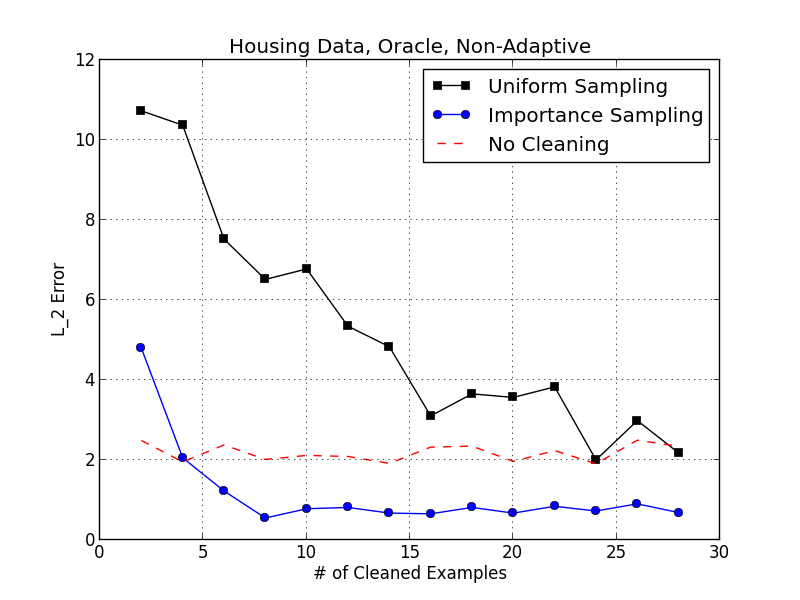
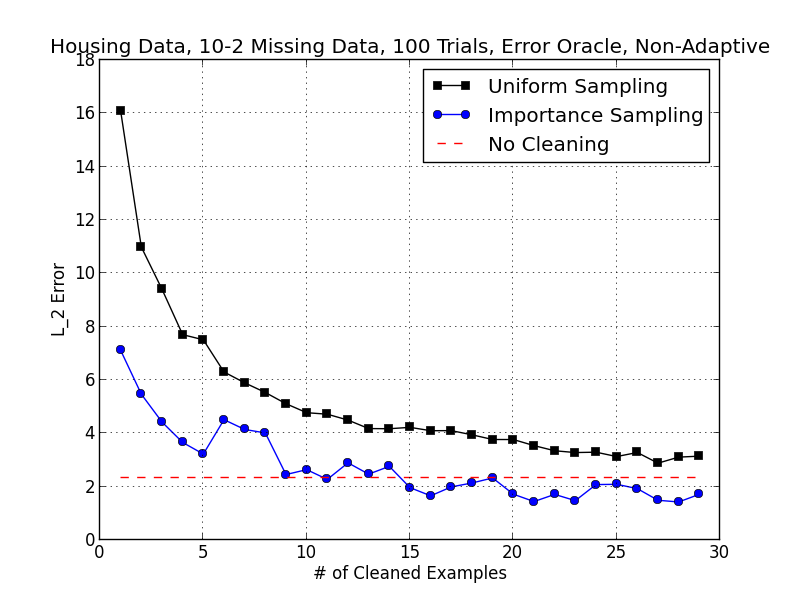
Udpated experiments and plots

diff --git a/experiment1.py b/experiment1.py
@@ -4,33 +4,8 @@ import numpy as np
 import random
 from cvxopt import solvers, matrix, mul
 from sampleml import *
-
-"""
-This loads the smallest load the smallest dataset that we 
-have. The housing dataset. This dataset is completely numerical
-and is meant for regression tasks.
-"""
-def loadHousingDataSet():
-	lineCount = 0
-	data_matrix = np.zeros((0,14))
-
-	with open('data/housing.csv') as file:
-		line = file.readline()
-		while line != "":
-			example_vector = np.zeros((1,14))
-			data_line = line.split()
-
-			for i in range(0,14):
-				example_vector[0,i] = float(data_line[i])
-
-			data_matrix = np.vstack([data_matrix, example_vector])
-
-			line = file.readline()
-			lineCount = lineCount + 1
-
-	print lineCount, "lines successfuly loaded."
-
-	return data_matrix
+from dataset import *
+import matplotlib.pyplot as plt
 
 """
 Experiment 1, Suppose we have an oracle that
@@ -45,7 +20,7 @@ def doExperiment1a(uniform=False,cleaning=20, errorRate=0.1):
 	feature_tuple = featuresObservationsSplit(raw_data,13) #get the clean result
 	cleancvxsol = trainConvexLossModel(feature_tuple[0],feature_tuple[1])
 
-	dirty_data_with_error_spec = makeMissingValues(raw_data, [1,13,0], -1, errorRate)#make it dirty
+	dirty_data_with_error_spec = makeMissingValues(raw_data, [1,12, 4, 13,0], -1, errorRate)#make it dirty
 	oracle = learnMissingValuePredicate(dirty_data_with_error_spec) #learn oracle on the full data
 	feature_tuple = featuresObservationsSplit(dirty_data_with_error_spec[0],13)
 	cvxsol = trainConvexLossModel(feature_tuple[0],feature_tuple[1])
@@ -53,7 +28,7 @@ def doExperiment1a(uniform=False,cleaning=20, errorRate=0.1):
 	importance_sampling = getImportanceSamplingDistribution(oracle[0],dirty_data_with_error_spec[0], 13, cvxsol[1], cvxsol[2],uniform)
 	data = cleanNextTrainingBatch(dirty_data_with_error_spec,cleaning,importance_sampling[1],range(0,506))
 	feature_tuple = featuresObservationsSplit(data[0],13) #get the clean result
-	w = normalizeWeightMatrix(importance_sampling[0], int(data[2]))
+	w = normalizeWeightMatrix(importance_sampling[0], int(data[2]), data[4])
 	estcvxsol = trainConvexLossModel(feature_tuple[0],feature_tuple[1],'ls', w)
 
 	return (np.linalg.norm(cleancvxsol[0]['x']-cvxsol[0]['x']), np.linalg.norm(cleancvxsol[0]['x']-estcvxsol[0]['x']))
@@ -63,28 +38,28 @@ def experiment1aResults():
 	error_importance = []
 	error_dirty = []
 
-	cleaning_range = range(2,30,2)
-	averaging_trials = 25
+	cleaning_range = range(5,35,5)
+	averaging_trials = 100
 
 	for cleaning in cleaning_range:
-
 		trials_imp = []
 		trials_uni = []
 		trials_dirty = []
 
 		for trial in range(0,averaging_trials):
-			imp = doExperiment1a(False,cleaning)
-			uni = doExperiment1a(True,cleaning)
+			imp = doExperiment1a(False,cleaning,0.1)
+			uni = doExperiment1a(True,cleaning,0.1)
 			trials_imp.append(imp[1])
 			trials_uni.append(uni[1])
 			trials_dirty.append(uni[0])
 			trials_dirty.append(imp[0])
-
+		
 		error_uniform.append(np.median(trials_uni))
 		error_importance.append(np.median(trials_imp))
 		error_dirty.append(np.median(trials_dirty))
+		print 'i',trials_uni, trials_imp
 
-	import matplotlib.pyplot as plt
+
 	fig = plt.figure()
 	uniform = plt.plot(cleaning_range,error_uniform, 'ks-', label='Uniform Sampling')
 	importance = plt.plot(cleaning_range,error_importance, 'bo-', label='Importance Sampling')
@@ -120,7 +95,7 @@ def doExperiment1b(cleaning=20,batch=5, errorRate=0.1):
 		data = cleanNextTrainingBatch(dirty_data_with_error_spec,batch,importance_sampling[1],range(0,506))
 		dirty_data_with_error_spec = (data[0],data[1])
 		feature_tuple = featuresObservationsSplit(dirty_data_with_error_spec[0],13) #get the clean result
-		w = normalizeWeightMatrix(importance_sampling[0], int(data[2]))
+		w = normalizeWeightMatrix(importance_sampling[0], int(data[2]),data[4])
 		cvxsol = trainConvexLossModel(feature_tuple[0],feature_tuple[1],'ls', w)
 
 	#do the last batch
@@ -129,7 +104,7 @@ def doExperiment1b(cleaning=20,batch=5, errorRate=0.1):
 		data = cleanNextTrainingBatch(dirty_data_with_error_spec,cleaning%batch,importance_sampling[1],range(0,506))
 		dirty_data_with_error_spec = (data[0],data[1])
 		feature_tuple = featuresObservationsSplit(dirty_data_with_error_spec[0],13) #get the clean result
-		w = normalizeWeightMatrix(importance_sampling[0], int(data[2]))
+		w = normalizeWeightMatrix(importance_sampling[0], int(data[2]),data[4])
 		cvxsol = trainConvexLossModel(feature_tuple[0],feature_tuple[1],'ls', w)
 
 	return (errorinitial, np.linalg.norm(cleancvxsol[0]['x']-cvxsol[0]['x']))
@@ -141,8 +116,8 @@ def experiment1bResults():
 	error_importance_full = []
 	error_dirty = []
 
-	cleaning_range = range(2,30,2)
-	averaging_trials = 25
+	cleaning_range = range(5,30,5)
+	averaging_trials = 100
 
 	for cleaning in cleaning_range:
 
@@ -173,7 +148,6 @@ def experiment1bResults():
 		error_importance_full.append(np.median(trials_imp_full))
 		error_dirty.append(np.median(trials_dirty))
 
-	import matplotlib.pyplot as plt
 	fig = plt.figure()
 	uniform = plt.plot(cleaning_range,error_uniform, 'ks-', label='Uniform Sampling')
 	importance = plt.plot(cleaning_range,error_importance_5, 'b^-', label='Importance Sampling (B=5)')
@@ -186,3 +160,72 @@ def experiment1bResults():
 	plt.title('Housing Data, Oracle, Adaptive')
 	plt.legend()
 	plt.savefig('results/experiment1b.png')
+
+"""
+Experiment 1, Suppose we have an oracle that
+tells us what records have errors but *not*
+how to clean them.
+
+Non-adaptive
+"""
+def doExperiment1c(uniform=False,cleaning=20, errorRate=0.1):
+	raw_data = loadEEGDataSet() #load the housing dataset
+	
+	feature_tuple = featuresObservationsSplit(raw_data,14) #get the clean result
+	cleancvxsol = trainConvexLossModel(feature_tuple[0],feature_tuple[1])
+
+	dirty_data_with_error_spec = makeMissingValues(raw_data, [3,13,0], -1, errorRate)#make it dirty
+	oracle = learnMissingValuePredicate(dirty_data_with_error_spec) #learn oracle on the full data
+	feature_tuple = featuresObservationsSplit(dirty_data_with_error_spec[0],14)
+	cvxsol = trainConvexLossModel(feature_tuple[0],feature_tuple[1])
+
+	importance_sampling = getImportanceSamplingDistribution(oracle[0],dirty_data_with_error_spec[0], 14, cvxsol[1], cvxsol[2],uniform)
+	data = cleanNextTrainingBatch(dirty_data_with_error_spec,cleaning,importance_sampling[1],range(0,14980))
+	feature_tuple = featuresObservationsSplit(data[0],14) #get the clean result
+	w = normalizeWeightMatrix(importance_sampling[0], int(data[2]),data[4])
+
+	if not uniform:
+		estcvxsol = trainConvexLossModel(feature_tuple[0],feature_tuple[1],'ls', w)
+	else:
+		estcvxsol = trainConvexLossModel(feature_tuple[0],feature_tuple[1],'ls', w)
+
+	print np.linalg.norm(cleancvxsol[0]['x']-cvxsol[0]['x']), np.linalg.norm(cleancvxsol[0]['x']-estcvxsol[0]['x'])
+
+	return (np.linalg.norm(cleancvxsol[0]['x']-cvxsol[0]['x']), np.linalg.norm(cleancvxsol[0]['x']-estcvxsol[0]['x']))
+
+def experiment1cResults():
+	error_uniform = []
+	error_importance = []
+	error_dirty = []
+
+	cleaning_range = range(100,1300,100)
+	averaging_trials = 2
+
+	for cleaning in cleaning_range:
+
+		trials_imp = []
+		trials_uni = []
+		trials_dirty = []
+
+		for trial in range(0,averaging_trials):
+			imp = doExperiment1c(False,cleaning,0.1)
+			uni = doExperiment1c(True,cleaning,0.1)
+			trials_imp.append(imp[1])
+			trials_uni.append(uni[1])
+			trials_dirty.append(uni[0])
+			trials_dirty.append(imp[0])
+
+		error_uniform.append(np.median(trials_uni))
+		error_importance.append(np.median(trials_imp))
+		error_dirty.append(np.median(trials_dirty))
+
+	fig = plt.figure()
+	uniform = plt.plot(cleaning_range,error_uniform, 'ks-', label='Uniform Sampling')
+	importance = plt.plot(cleaning_range,error_importance, 'bo-', label='Importance Sampling')
+	dirty = plt.plot(cleaning_range,error_dirty,'r--',label='No Cleaning')
+	plt.ylabel('L_2 Error')
+	plt.xlabel('# of Cleaned Examples')
+	plt.grid()
+	plt.title('EEG Data, Oracle, Non-Adaptive')
+	plt.legend()
+	plt.savefig('results/experiment1c.png')

diff --git a/sampleml.py b/sampleml.py
@@ -87,6 +87,7 @@ using numpy's slicing feature
 def featuresObservationsSplit(data_matrix, obscol):
 	size = data_matrix.shape
 	feature_indices = set(range(0,size[1])).difference(set([obscol]))
+	#print feature_indices
 	return (data_matrix[:,list(feature_indices)], data_matrix[:,obscol])
 
 """
@@ -148,7 +149,7 @@ def getImportanceSamplingDistribution(cleaning_result_tuple,
 
 	importance_weights = loss
 	for i in range(0,N):
-		estimated_feature_change = np.zeros((p-2,1))
+		estimated_feature_change = np.zeros((p-1,1))
 		estimated_obs_change = 0
 		
 		erroneous = 0
@@ -163,7 +164,7 @@ def getImportanceSamplingDistribution(cleaning_result_tuple,
 				erroneous = 1.0
 
 		num_errors = num_errors + erroneous
-		importance_weights[i] = erroneous*abs(importance_weights[i] + np.dot(gradient[i,0:(p-2)],estimated_feature_change) + gradient[i,(p-1)]*estimated_obs_change)
+		importance_weights[i] = erroneous*abs(importance_weights[i] + np.dot(gradient[i,0:(p-1)],estimated_feature_change) + gradient[i,p-1]*estimated_obs_change)
 
 	normalization = np.sum(importance_weights)
 	standard_normalization = 1.0/max(num_errors,1.0)
@@ -172,7 +173,7 @@ def getImportanceSamplingDistribution(cleaning_result_tuple,
 	sampling_probs = np.zeros((N,1))
 	for i in range(0,N):
 		if importance_weights[i] != 0 and not force_uniform:
-			weight_matrix[i,i] = importance_weights[i] / normalization
+			weight_matrix[i,i] = (1.0/num_errors) / (importance_weights[i] / normalization)
 			sampling_probs[i] = (importance_weights[i] / normalization)
 
 		if importance_weights[i] != 0 and force_uniform:
@@ -221,18 +222,20 @@ def cleanNextTrainingBatch(data_matrix_es_tuple,k,sampling_probs,population):
 
 	print cost,'examples looked at.',actual_cleaned, " examples cleaned"
 
-	return (data_matrix_es_tuple[0], errorspec, cost, actual_cleaned)	
+	return (data_matrix_es_tuple[0], errorspec, cost, actual_cleaned, selectedIndex)	
 
 """
 This normalizes the weight matix for re-estimation after cleaning
 """
-def normalizeWeightMatrix(weight_matrix, cleaned):
+def normalizeWeightMatrix(weight_matrix, cleaned, selectedIndex):
 	N = weight_matrix.shape[0]
 	K = len(np.flatnonzero(weight_matrix)) + 0.0
 	for i in range(0,N):
 		if weight_matrix[i,i] == 0:
-			weight_matrix[i,i] = 1
+			weight_matrix[i,i] = 1.0
+		elif i not in selectedIndex:
+			weight_matrix[i,i] = 0.0
 		else:
-			weight_matrix[i,i] = K/cleaned*weight_matrix[i,i]
+			weight_matrix[i,i] = K/(len(selectedIndex)+0.0)*weight_matrix[i,i]
 			
 	return weight_matrix

diff --git a/main.py b/main.py
@@ -3,6 +3,10 @@
 import experiment1
 
 #Housing data, assuming an oracle, non-adaptive
-#experiment1.experiment1aResults()
+experiment1.experiment1aResults()
 
-print experiment1.experiment1bResults()
+#Housing data, assuming an oracle, adaptive
+#experiment1.experiment1bResults()
+
+#Eeg data, assuming oracle, non-adaptive
+#print experiment1.experiment1cResults()
